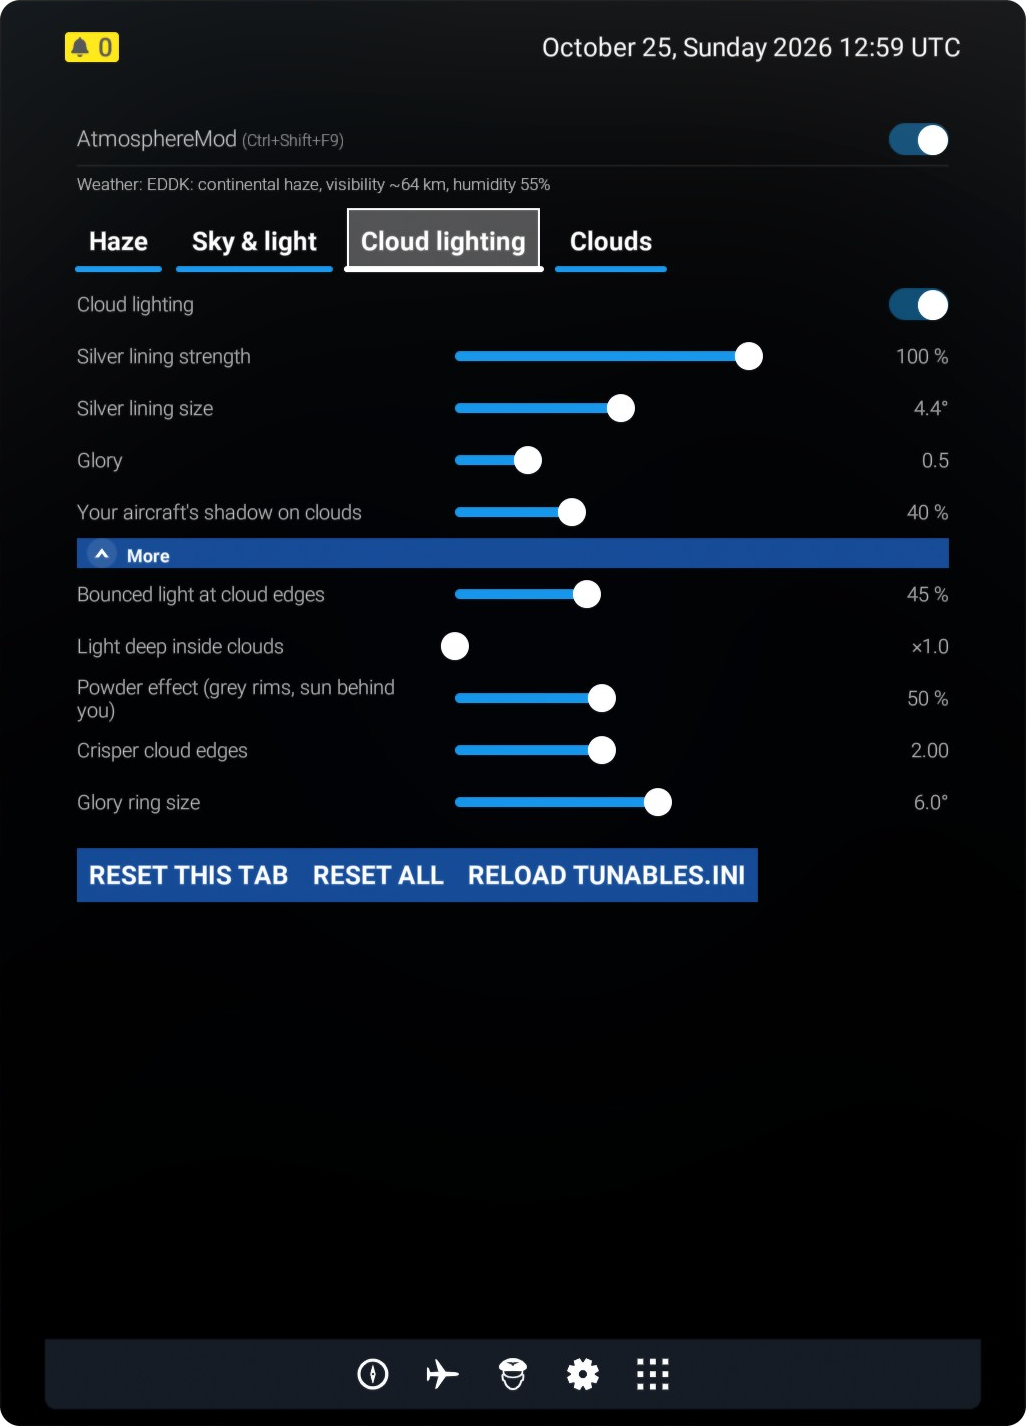
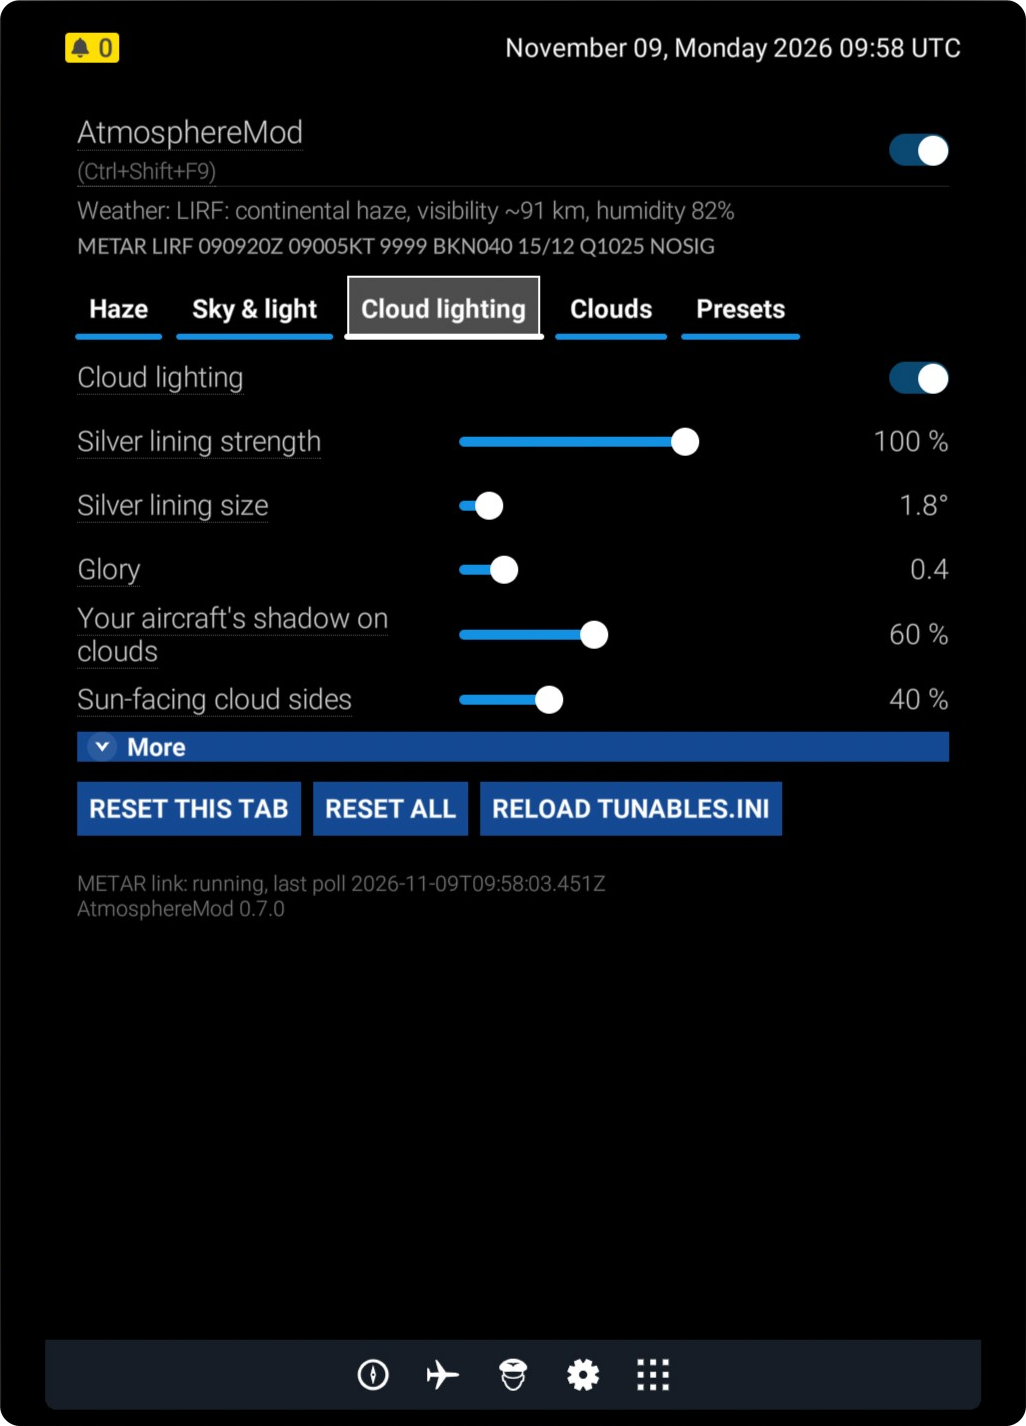
README: the EFB app's tabs in 0.7.0, with the Presets tab
New tablet screenshots, cut from in-sim shots of 9 November: Haze (with Haze
strength), Sky & light, Cloud lighting (with Sun-facing cloud sides), Clouds,
and the Presets tab, new in the section. The captions follow what each tab
shows now.

diff --git a/README.md b/README.md
@@ -246,8 +246,8 @@ above, except solid clouds 0.5 and a 60 km anchoring radius.
 
 ### Settings on the EFB tablet
 
-The AtmosphereMod app's four tabs (see [Settings](#settings)), here with a few
-settings changed from the defaults.
+The AtmosphereMod app's five tabs in 0.7.0 (see [Settings](#settings)), here
+with a few settings changed from the defaults.
 
 <table>
   <tr>
@@ -255,7 +255,7 @@ settings changed from the defaults.
     <td width="50%"><a href="Screenshots/efb-sky-light.png"><img src="Screenshots/efb-sky-light.png" alt="EFB app: the Sky &amp; light tab"></a></td>
   </tr>
   <tr>
-    <td><b>Haze</b>: the atmosphere and the METAR's haze; the manual haze is folded away.</td>
+    <td><b>Haze</b>: the atmosphere, the METAR's haze and its strength; the manual haze is folded away.</td>
     <td><b>Sky &amp; light</b>: real-world sky colours and the daylight white balance.</td>
   </tr>
   <tr>
@@ -263,8 +263,16 @@ settings changed from the defaults.
     <td><a href="Screenshots/efb-clouds.png"><img src="Screenshots/efb-clouds.png" alt="EFB app: the Clouds tab"></a></td>
   </tr>
   <tr>
-    <td><b>Cloud lighting</b>, with its "More" section open: silver lining, glory, your aircraft's shadow.</td>
-    <td><b>Clouds</b>, with "More" open: the METAR anchoring, solid clouds, cloud types and smooth bases; under "More", each cloud type's thickness.</td>
+    <td><b>Cloud lighting</b>: silver lining, glory, your aircraft's shadow and Sun-facing cloud sides; the powder effect, crisper edges and the finer settings are under "More".</td>
+    <td><b>Clouds</b>: the METAR anchoring, solid clouds, fly-through clouds, cloud types, smooth bases and thunderstorms; under "More", each cloud type's thickness.</td>
+  </tr>
+  <tr>
+    <td><a href="Screenshots/efb-presets.png"><img src="Screenshots/efb-presets.png" alt="EFB app: the Presets tab"></a></td>
+    <td></td>
+  </tr>
+  <tr>
+    <td><b>Presets</b>: your settings saved under a name, the mod's Default, and presets imported from a file.</td>
+    <td></td>
   </tr>
 </table>
 
